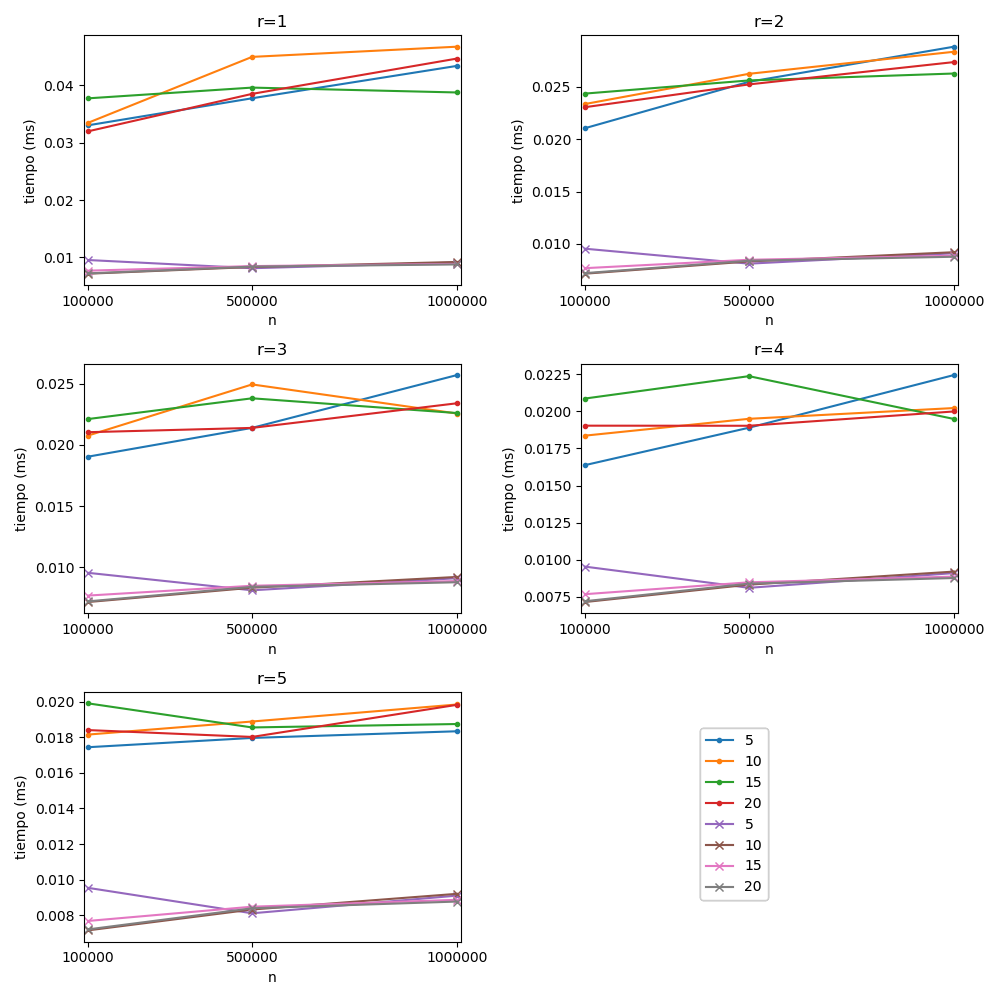
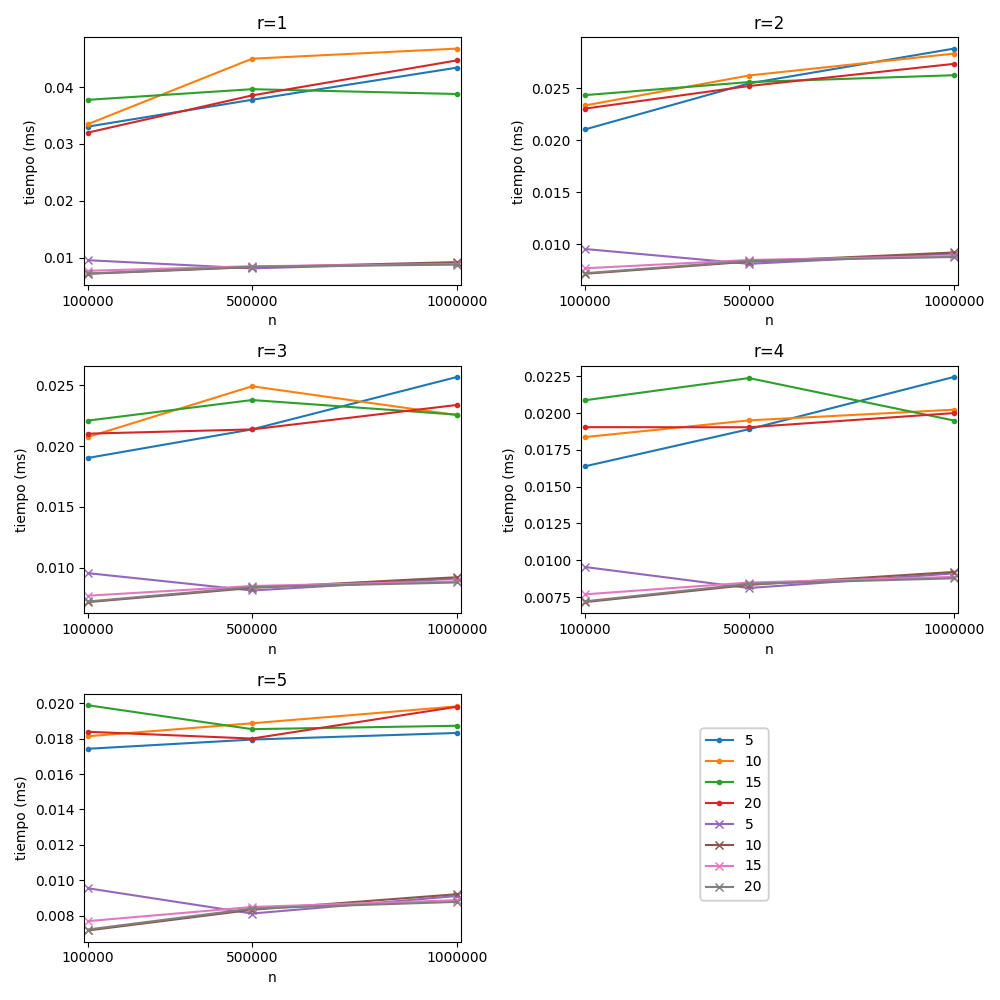
Compara creacion y busqueda kdr vs kd

diff --git a/analisis.py b/analisis.py
@@ -153,3 +153,31 @@ if __name__ == '__main__':
     fig.tight_layout()
     plt.savefig(f'informe/img/buscar_neg_kd_n.png')
 
+    fig = plt.figure(figsize=(10,10))
+    # Tiempo buscar positivo vs k
+    for i, r in enumerate(range(1, 5+1)):
+        ax = fig.add_subplot(f'32{i+1}')
+        (
+            df_crear_kdr[df_crear_kdr['r'] == r]
+            .groupby(['k', 'n'], as_index=False)['tiempo']
+            .mean()
+            .pivot(index='n', columns='k', values='tiempo')
+            .plot(style='.-', ax=ax)
+        )
+        (
+            df_crear_kd
+            .groupby(['k', 'n'], as_index=False)['tiempo']
+            .mean()
+            .pivot(index='n', columns='k', values='tiempo')
+            .plot(style='x-', ax=ax)
+        )
+        ax.set_xlim([10**5 - 10**4, 10**6 + 10**4])
+        ax.set_ylabel('tiempo (ms)')
+        ax.set_xticks([10**5, 5 * 10**5, 10**6])
+        ax.margins(.05)
+        ax.title.set_text(f'r={r}')
+        ax.get_legend().remove()
+        handles, labels = ax.get_legend_handles_labels()
+        fig.legend(handles, labels, loc=(0.7, 0.1))
+    fig.tight_layout()
+    plt.savefig(f'informe/img/armado_n.png')

diff --git a/informe/chapters/analisis.tex b/informe/chapters/analisis.tex
@@ -63,3 +63,23 @@ pero la diferencia no es significativa.
   \label{fig:neg-kd}
   \end{center}
 \end{figure}
+
+
+En las figuras \ref{fig:pos-kd} y \ref{fig:neg-kd} podemos observar
+una clara superioridad del árbol kd de búsqueda, logrando sus
+búsquedas siempre por debajo de los 0.010ms, y esto se mantiene para
+todo k y todo r. Ente los árboles kdr se observa variabilidad pero no
+es signifiativa. Aún más, la creación de árboles
+(fig. \ref{fig:armado}) muestra que la creación de arboles kd es
+también superior, lo que es de esperar por la mayor complejidad del
+algoritmos al tener que comparar r medianas.
+
+
+\begin{figure}
+  \begin{center}
+  \includegraphics[width=.7\textwidth]{armado_n}
+  \caption{Tiempo de creación de los arboles kd y kdr
+    según n, para distintos valores de r y k.}
+  \label{fig:armado}
+  \end{center}
+\end{figure}
